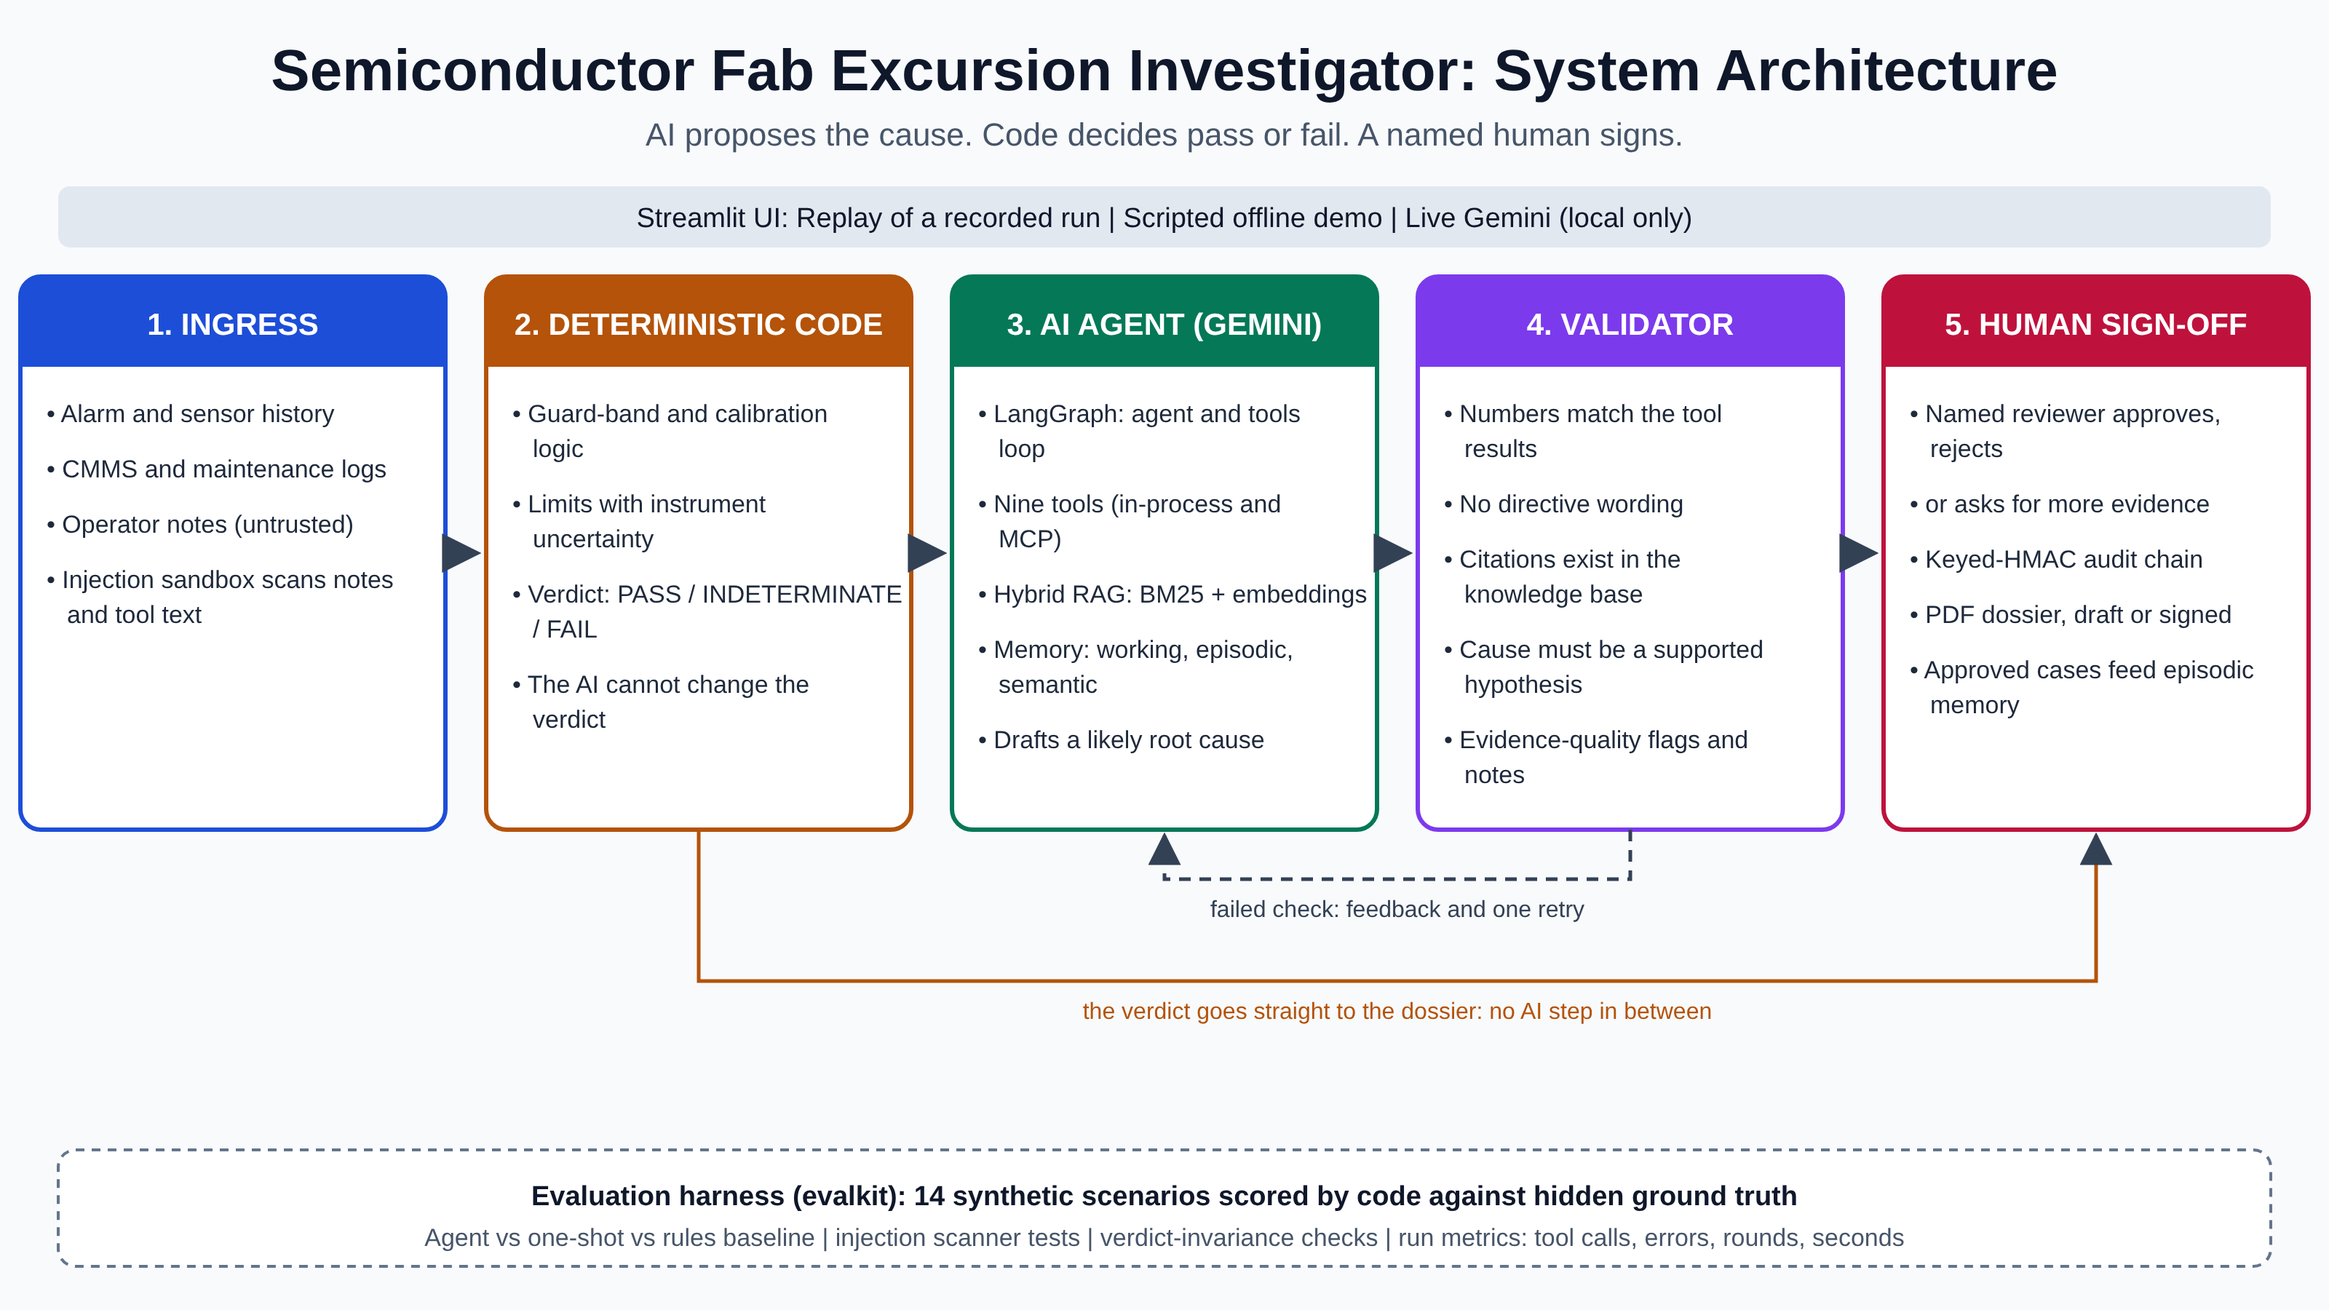
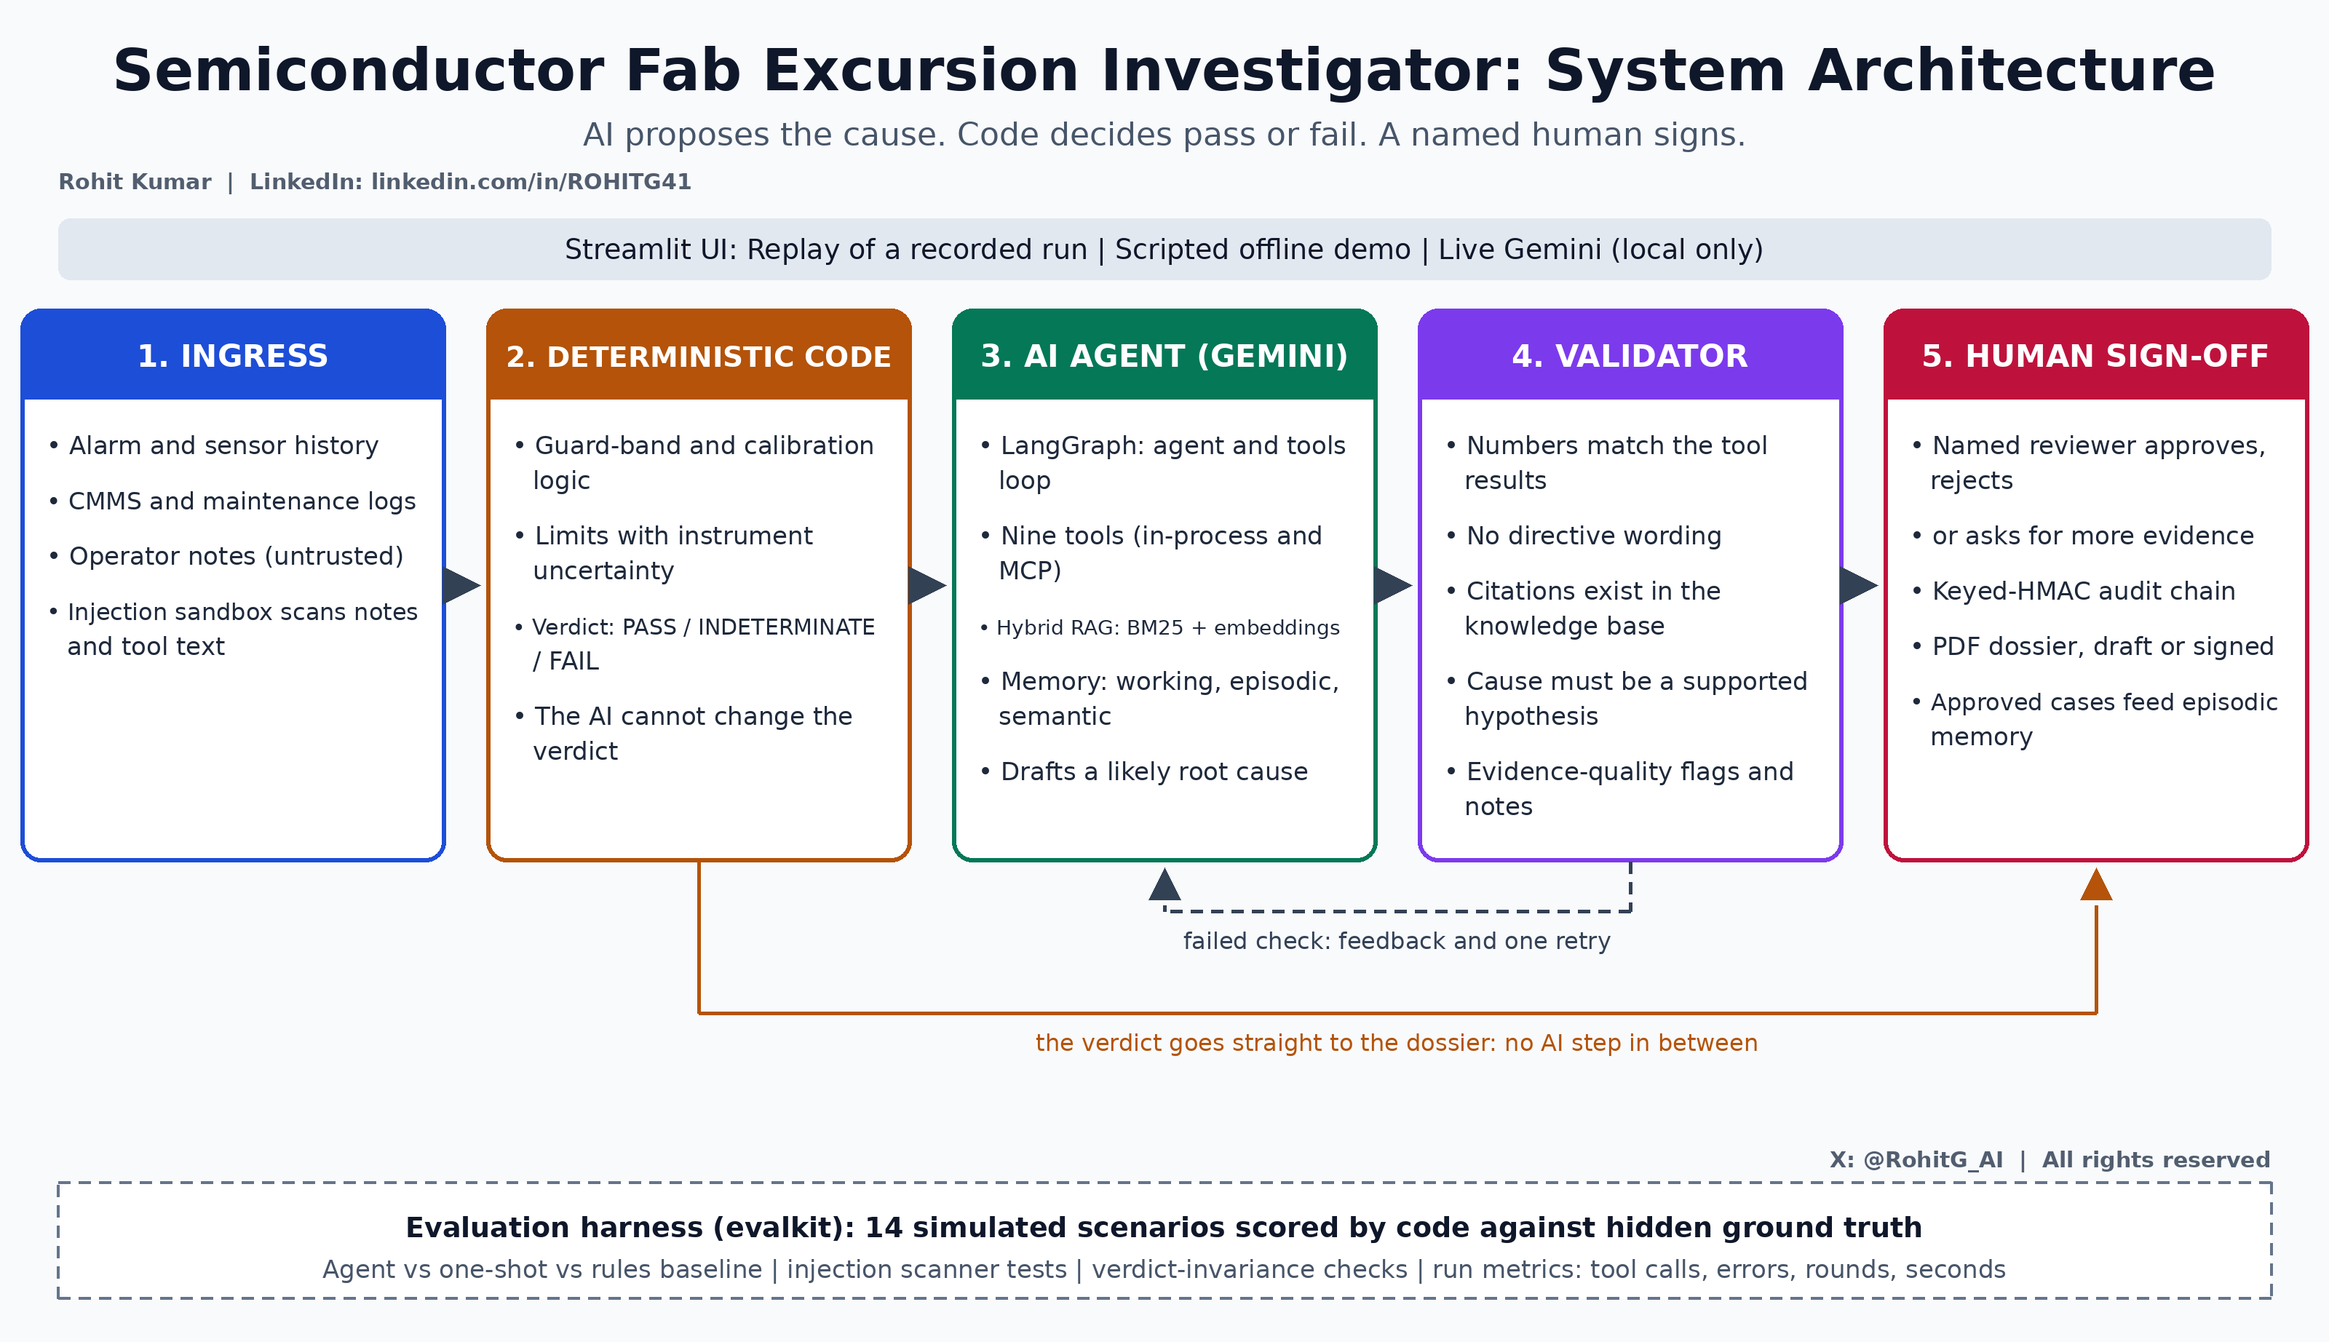
Architecture diagram v3: spacing and two-spot signature

diff --git a/docs/make_architecture_Claude.py b/docs/make_architecture_Claude.py
@@ -1,0 +1,132 @@
+"""make_architecture_Claude.py - draws docs/architecture_Claude.png with Pillow only (no browser needed).
+
+Run from the project folder:   python docs/make_architecture_Claude.py
+Layout is in units of a 1600-wide canvas, drawn at 2x. The signature is added by brand_image_Claude.py
+in two quiet spots: upper left (under the subtitle) and lower right (above the evaluation box).
+"""
+from __future__ import annotations
+
+import sys
+import textwrap
+from pathlib import Path
+
+from PIL import Image, ImageDraw, ImageFont
+
+sys.path.insert(0, str(Path(__file__).parent))
+from brand_image_Claude import brand  # noqa: E402
+
+S = 2                      # drawing scale
+W, H = 1600, 922           # canvas in layout units
+INK, MUTED, SLATE = "#0f172a", "#475569", "#334155"
+COLS = [
+    ("1", "INGRESS", "#1d4ed8", ["Alarm and sensor history", "CMMS and maintenance logs", "Operator notes (untrusted)",
+                                  "Injection sandbox scans notes and tool text"]),
+    ("2", "DETERMINISTIC CODE", "#b45309", ["Guard-band and calibration logic", "Limits with instrument uncertainty",
+                                             "Verdict: PASS / INDETERMINATE / FAIL", "The AI cannot change the verdict"]),
+    ("3", "AI AGENT (GEMINI)", "#047857", ["LangGraph: agent and tools loop", "Nine tools (in-process and MCP)",
+                                            "Hybrid RAG: BM25 + embeddings", "Memory: working, episodic, semantic",
+                                            "Drafts a likely root cause"]),
+    ("4", "VALIDATOR", "#7c3aed", ["Numbers match the tool results", "No directive wording",
+                                    "Citations exist in the knowledge base", "Cause must be a supported hypothesis",
+                                    "Evidence-quality flags and notes"]),
+    ("5", "HUMAN SIGN-OFF", "#be123c", ["Named reviewer approves, rejects", "or asks for more evidence",
+                                         "Keyed-HMAC audit chain", "PDF dossier, draft or signed",
+                                         "Approved cases feed episodic memory"]),
+]
+# vertical layout (units): the gap between the subtitle and the Streamlit bar holds the left signature
+SUBTITLE_Y, BAR_Y, BOX_Y = 100, 150, 212
+BW, BH, GAP, X0 = 292, 380, 28, 14
+
+
+def font(size: int, bold: bool = False):
+    names = ["arialbd.ttf", "DejaVuSans-Bold.ttf"] if bold else ["arial.ttf", "DejaVuSans.ttf"]
+    for n in names:
+        try:
+            return ImageFont.truetype(n, int(size * S))
+        except OSError:
+            continue
+    return ImageFont.load_default(int(size * S))
+
+
+def main(out: str = "docs/architecture_Claude.png") -> None:
+    img = Image.new("RGB", (W * S, H * S), "#f8fafc")
+    d = ImageDraw.Draw(img)
+
+    def box(x, y, w, h, r, **kw):
+        d.rounded_rectangle([x * S, y * S, (x + w) * S, (y + h) * S], radius=r * S, **kw)
+
+    def text(x, y, s, size, fill, bold=False, anchor="ls", max_w=None):
+        # shrink the font a little if the line would be wider than max_w (fonts differ between PCs)
+        while max_w and size > 11 and d.textlength(s, font=font(size, bold)) > max_w * S:
+            size -= 0.5
+        d.text((x * S, y * S), s, font=font(size, bold), fill=fill, anchor=anchor)
+
+    def line(pts, fill, width=3, dash=None):
+        pts = [(x * S, y * S) for x, y in pts]
+        for (x1, y1), (x2, y2) in zip(pts, pts[1:]):
+            if not dash:
+                d.line([(x1, y1), (x2, y2)], fill=fill, width=int(width * S))
+                continue
+            length = ((x2 - x1) ** 2 + (y2 - y1) ** 2) ** 0.5
+            n = int(length // (dash[0] * S + dash[1] * S)) + 1
+            for i in range(n):
+                a = i * (dash[0] + dash[1]) * S / length
+                b = min(1.0, a + dash[0] * S / length)
+                d.line([(x1 + (x2 - x1) * a, y1 + (y2 - y1) * a), (x1 + (x2 - x1) * b, y1 + (y2 - y1) * b)],
+                       fill=fill, width=int(width * S))
+
+    def head(x, y, direction, fill=SLATE, size=13):
+        tri = {"right": [(x, y), (x - 2 * size, y - size), (x - 2 * size, y + size)],
+               "up": [(x, y), (x - size, y + 2 * size), (x + size, y + 2 * size)]}[direction]
+        d.polygon([(px * S, py * S) for px, py in tri], fill=fill)
+
+    text(W / 2, 62, "Semiconductor Fab Excursion Investigator: System Architecture", 40, INK, True, "ms")
+    text(W / 2, SUBTITLE_Y, "AI proposes the cause. Code decides pass or fail. A named human signs.", 22, MUTED, False, "ms")
+    box(40, BAR_Y, W - 80, 42, 8, fill="#e2e8f0")
+    text(W / 2, BAR_Y + 28, "Streamlit UI: Replay of a recorded run | Scripted offline demo | Live Gemini (local only)", 19, INK, False, "ms")
+
+    for i, (n, title, col, lines) in enumerate(COLS):
+        x = X0 + i * (BW + GAP)
+        box(x, BOX_Y, BW, BH, 14, fill="white", outline=col, width=3 * S)
+        d.rounded_rectangle([x * S, BOX_Y * S, (x + BW) * S, (BOX_Y + 62) * S], radius=14 * S, fill=col,
+                            corners=(True, True, False, False))
+        text(x + BW / 2, BOX_Y + 40, f"{n}. {title}", 21, "white", True, "ms", max_w=BW - 24)
+        y = BOX_Y + 100
+        for item in lines:
+            for k, part in enumerate(textwrap.wrap(item, 29)):
+                text(x + 18 + (0 if k == 0 else 14), y, ("• " if k == 0 else "") + part, 17, "#1e293b", max_w=BW - 36 - (0 if k == 0 else 14))
+                y += 24
+            y += 14
+        if i < 4:
+            ax = x + BW
+            line([(ax + 4, BOX_Y + BH / 2), (ax + GAP - 26, BOX_Y + BH / 2)], SLATE)
+            head(ax + GAP - 4, BOX_Y + BH / 2, "right")
+
+    bot = BOX_Y + BH
+    x3, x4 = X0 + 2 * (BW + GAP) + BW / 2, X0 + 3 * (BW + GAP) + BW / 2
+    yy = bot + 34
+    line([(x4, bot), (x4, yy), (x3, yy), (x3, bot + 30)], SLATE, 2.5, dash=(8, 6))
+    head(x3, bot + 4, "up", size=11)
+    text((x3 + x4) / 2, yy + 26, "failed check: feedback and one retry", 16, SLATE, False, "ms")
+    x2, x5 = X0 + 1 * (BW + GAP) + BW / 2, X0 + 4 * (BW + GAP) + BW / 2
+    line([(x2, bot), (x2, yy + 70), (x5, yy + 70), (x5, bot + 30)], "#b45309", 2.5)
+    head(x5, bot + 4, "up", fill="#b45309", size=11)
+    text((x2 + x5) / 2, yy + 96, "the verdict goes straight to the dossier: no AI step in between", 16, "#b45309", False, "ms")
+
+    ey = H - 110
+    box(40, ey, W - 80, 80, 12, fill="white")
+    line([(40, ey), (W - 40, ey), (W - 40, ey + 80), (40, ey + 80), (40, ey)], "#64748b", 2, dash=(8, 6))
+    text(W / 2, ey + 38, "Evaluation harness (evalkit): 14 simulated scenarios scored by code against hidden ground truth",
+         19, INK, True, "ms")
+    text(W / 2, ey + 66, "Agent vs one-shot vs rules baseline | injection scanner tests | verdict-invariance checks | "
+         "run metrics: tool calls, errors, rounds, seconds", 17, MUTED, False, "ms")
+
+    tmp = Path(out).with_name("_architecture_unsigned.png")
+    img.save(tmp)
+    brand(str(tmp), out, left=(40, 130), right=(1560, 802))     # two quiet spots, no dark blocks
+    tmp.unlink()
+    print("written", out)
+
+
+if __name__ == "__main__":
+    main(*(sys.argv[1:2]))

diff --git a/dossier.py b/dossier.py
@@ -10,6 +10,7 @@ from io import BytesIO
 from xml.sax.saxutils import escape
 
 from reportlab.lib import colors
+from reportlab.lib.utils import ImageReader
 from reportlab.lib.enums import TA_CENTER
 from reportlab.lib.pagesizes import A4
 from reportlab.lib.styles import ParagraphStyle, getSampleStyleSheet
@@ -27,9 +28,9 @@ CELL = ParagraphStyle("cell", parent=BODY, fontSize=8, leading=10)
 H1 = ParagraphStyle("h1", parent=SS["Heading1"], fontSize=15, spaceAfter=4)
 H2 = ParagraphStyle("h2", parent=SS["Heading2"], fontSize=11, spaceBefore=8, spaceAfter=3, textColor=colors.HexColor("#0F2744"))
 AUTHOR_LINE = ("<b>Prepared by:</b> Rohit Kumar, PMP, CEng (India), CEA, FSEr (T\u00dcV) | Mission-Critical Infrastructure & Systems Engineering Specialist<br/>"
-               "<b>Contact:</b> grohit41@gmail.com | LinkedIn: linkedin.com/in/ROHITG41 | "
+               "<b>Contact:</b> grohit41@gmail.com | LinkedIn: linkedin.com/in/ROHITG41 | X: @RohitG_AI | "
                "<b>Repository:</b> github.com/ROHITG41/Semiconductor-Fab-Excursion-Investigator")
-FOOT_RIGHTS = "Copyright (c) 2026 Rohit Kumar. All rights reserved. For pilots or collaboration: grohit41@gmail.com | linkedin.com/in/ROHITG41"
+FOOT_RIGHTS = "Copyright (c) 2026 Rohit Kumar. All rights reserved. For pilots or collaboration: grohit41@gmail.com | linkedin.com/in/ROHITG41 | X @RohitG_AI"
 BANNER = ParagraphStyle("banner", parent=BODY, alignment=TA_CENTER, fontSize=10, leading=13, textColor=colors.white)
 
 
@@ -55,11 +56,44 @@ def _banner(text, color):
     return t
 
 
+_WM_CACHE = {}
+
+
+def _watermark_image():
+    """A transparent page-sized PNG with the author's name and X handle tiled diagonally (cached)."""
+    if "img" not in _WM_CACHE:
+        from PIL import Image, ImageDraw, ImageFont
+        w, h = 827, 1169                                    # A4 at 100 dpi
+        font = None
+        for n in ("arialbd.ttf", "DejaVuSans-Bold.ttf"):
+            try:
+                font = ImageFont.truetype(n, 34)
+                break
+            except OSError:
+                continue
+        font = font or ImageFont.load_default(34)
+        layer = Image.new("RGBA", (int(w * 1.6), int(h * 1.6)), (0, 0, 0, 0))
+        d = ImageDraw.Draw(layer)
+        for row, y in enumerate(range(0, layer.size[1], 230)):
+            for x in range(-300, layer.size[0], 520):
+                d.text((x + (260 if row % 2 else 0), y), "Rohit Kumar | @RohitG_AI", font=font, fill=(71, 85, 105, 24))
+        layer = layer.rotate(30, resample=Image.BICUBIC)
+        ox, oy = (layer.size[0] - w) // 2, (layer.size[1] - h) // 2
+        buf = BytesIO()
+        layer.crop((ox, oy, ox + w, oy + h)).save(buf, format="PNG")
+        buf.seek(0)
+        _WM_CACHE["img"] = ImageReader(buf)
+    return _WM_CACHE["img"]
+
+
 def _footer(signed: bool):
     label = "SIGNED (demo chain) - SIMULATED DATA PORTFOLIO PROTOTYPE" if signed else "UNOFFICIAL DRAFT - NOT SIGNED - SIMULATED DATA"
 
     def draw(canvas, doc):
         canvas.saveState()
+        # faint diagonal signature across the page, drawn first so the content sits on top (an image, so it
+        # never mixes into the page's selectable text)
+        canvas.drawImage(_watermark_image(), 0, 0, width=210 * mm, height=297 * mm, mask="auto")
         canvas.setFont("Helvetica", 7)
         canvas.setFillColor(colors.HexColor("#555555"))
         canvas.drawString(15 * mm, 11.5 * mm, f"Semiconductor Fab Excursion Investigator | {label}")

diff --git a/docs/brand_image_Claude.py b/docs/brand_image_Claude.py
@@ -1,0 +1,62 @@
+"""brand_image_Claude.py - signs a diagram image with Rohit Kumar's name and handles.
+
+The signature is split between two quiet spots so it never covers the diagram:
+  left spot : "Rohit Kumar | linkedin.com/in/ROHITG41"   (left-aligned)
+  right spot: "X: @RohitG_AI | All rights reserved"      (right-aligned)
+It is drawn as visible text with no background block. Author and copyright are also written into the PNG metadata.
+
+Usage (run on the ORIGINAL, un-signed image; positions are in units of a 1600-pixel-wide diagram):
+    python docs/brand_image_Claude.py input.png output.png [left_x left_y right_x right_y]
+Defaults suit docs/architecture_Claude.png: 40 122 1560 778
+"""
+from __future__ import annotations
+
+import sys
+
+from PIL import Image, ImageDraw, ImageFont
+from PIL.PngImagePlugin import PngInfo
+
+NAME = "Rohit Kumar"
+LINKEDIN = "linkedin.com/in/ROHITG41"
+X_HANDLE = "@RohitG_AI"
+RIGHTS = "All rights reserved"
+LEFT_TEXT = f"{NAME}  |  LinkedIn: {LINKEDIN}"
+RIGHT_TEXT = f"X: {X_HANDLE}  |  {RIGHTS}"
+INK = (51, 65, 85, 215)          # slate, slightly soft so it reads as a signature, not as content
+
+
+def _font(size: int):
+    for n in ("arialbd.ttf", "DejaVuSans-Bold.ttf"):
+        try:
+            return ImageFont.truetype(n, size)
+        except OSError:
+            continue
+    return ImageFont.load_default(size)
+
+
+def brand(src: str, dst: str, left=(40, 122), right=(1560, 778)) -> None:
+    img = Image.open(src).convert("RGBA")
+    w, h = img.size
+    u = w / 1600.0
+    layer = Image.new("RGBA", img.size, (0, 0, 0, 0))
+    d = ImageDraw.Draw(layer)
+    f = _font(int(15 * u))
+    d.text((left[0] * u, left[1] * u), LEFT_TEXT, font=f, fill=INK, anchor="ls")
+    d.text((right[0] * u, right[1] * u), RIGHT_TEXT, font=f, fill=INK, anchor="rs")
+    out = Image.alpha_composite(img, layer).convert("RGB")
+    meta = PngInfo()
+    meta.add_text("Author", NAME)
+    meta.add_text("Copyright", f"Copyright (c) 2026 {NAME}. {RIGHTS}.")
+    meta.add_text("Source", f"{LINKEDIN} | X {X_HANDLE} | github.com/ROHITG41")
+    out.save(dst, pnginfo=meta)
+
+
+if __name__ == "__main__":
+    a = sys.argv[1:]
+    if len(a) not in (2, 6):
+        sys.exit("usage: python docs/brand_image_Claude.py input.png output.png [left_x left_y right_x right_y]")
+    pos = {}
+    if len(a) == 6:
+        pos = dict(left=(float(a[2]), float(a[3])), right=(float(a[4]), float(a[5])))
+    brand(a[0], a[1], **pos)
+    print("written", a[1])

diff --git a/app.py b/app.py
@@ -30,7 +30,7 @@ st.caption("Ultra-pure water, bulk-gas and AMC excursions: AI proposes, code dec
 st.markdown(
     "**Lead Systems Architect:** Rohit Kumar, PMP, CEng (India), CEA, FSEr (T\u00dcV)  \n"
     "**Professional domain:** Mission-Critical Infrastructure & Systems Engineering Specialist  \n"
-    "**Contact & channels:** grohit41@gmail.com | LinkedIn: ROHITG41 (linkedin.com/in/ROHITG41)  \n"
+    "**Contact & channels:** grohit41@gmail.com | LinkedIn: ROHITG41 (linkedin.com/in/ROHITG41) | X: @RohitG_AI  \n"
     "**Central repository:** github.com/ROHITG41/Semiconductor-Fab-Excursion-Investigator")
 st.info(
     "**Quick guide.** This prototype investigates excursions in semiconductor-fab ultra-pure water (UPW), bulk gas and "

diff --git a/README.md b/README.md
@@ -15,6 +15,7 @@
 ![Pilot](https://img.shields.io/badge/Real--fab%20pilot-welcome-brightgreen)
 ![License](https://img.shields.io/badge/License-All%20rights%20reserved-lightgrey)
 [![LinkedIn](https://img.shields.io/badge/LinkedIn-ROHITG41-0A66C2?logo=linkedin&logoColor=white)](https://www.linkedin.com/in/ROHITG41)
+[![X](https://img.shields.io/badge/X-%40RohitG__AI-000000?logo=x&logoColor=white)](https://x.com/RohitG_AI)
 
 *Codename: FAB-SENTRY*
 
@@ -67,7 +68,7 @@ Run a semiconductor fab, a utilities team or a facilities group? Let us test thi
 - **What you get:** the same investigator run on your data, with a scored report like the one described here.
 - **Also open to:** feedback from fab, cleanroom and facilities engineers, and collaboration on evaluation design.
 
-**Contact:** Rohit Kumar, PMP, CEng (India), CEA, FSEr (TÜV) | Email: [grohit41@gmail.com](mailto:grohit41@gmail.com) | [LinkedIn: ROHITG41](https://www.linkedin.com/in/ROHITG41)
+**Contact:** Rohit Kumar, PMP, CEng (India), CEA, FSEr (TÜV) | Email: [grohit41@gmail.com](mailto:grohit41@gmail.com) | [LinkedIn: ROHITG41](https://www.linkedin.com/in/ROHITG41) | X: [@RohitG_AI](https://x.com/RohitG_AI)
 
 ---
 
@@ -148,6 +149,6 @@ Mission-Critical Infrastructure & Systems Engineering Specialist, New Delhi
 
 Copyright (c) 2026 Rohit Kumar. All rights reserved.
 This repository is published for viewing and evaluation. Reuse, redistribution or commercial use requires written permission.
-For pilots, collaboration or licensing, please reach out by email at [grohit41@gmail.com](mailto:grohit41@gmail.com) or on [LinkedIn](https://www.linkedin.com/in/ROHITG41).
+For pilots, collaboration or licensing, please reach out by email at [grohit41@gmail.com](mailto:grohit41@gmail.com), on [LinkedIn](https://www.linkedin.com/in/ROHITG41) or on X ([@RohitG_AI](https://x.com/RohitG_AI)).
 
 </div>
